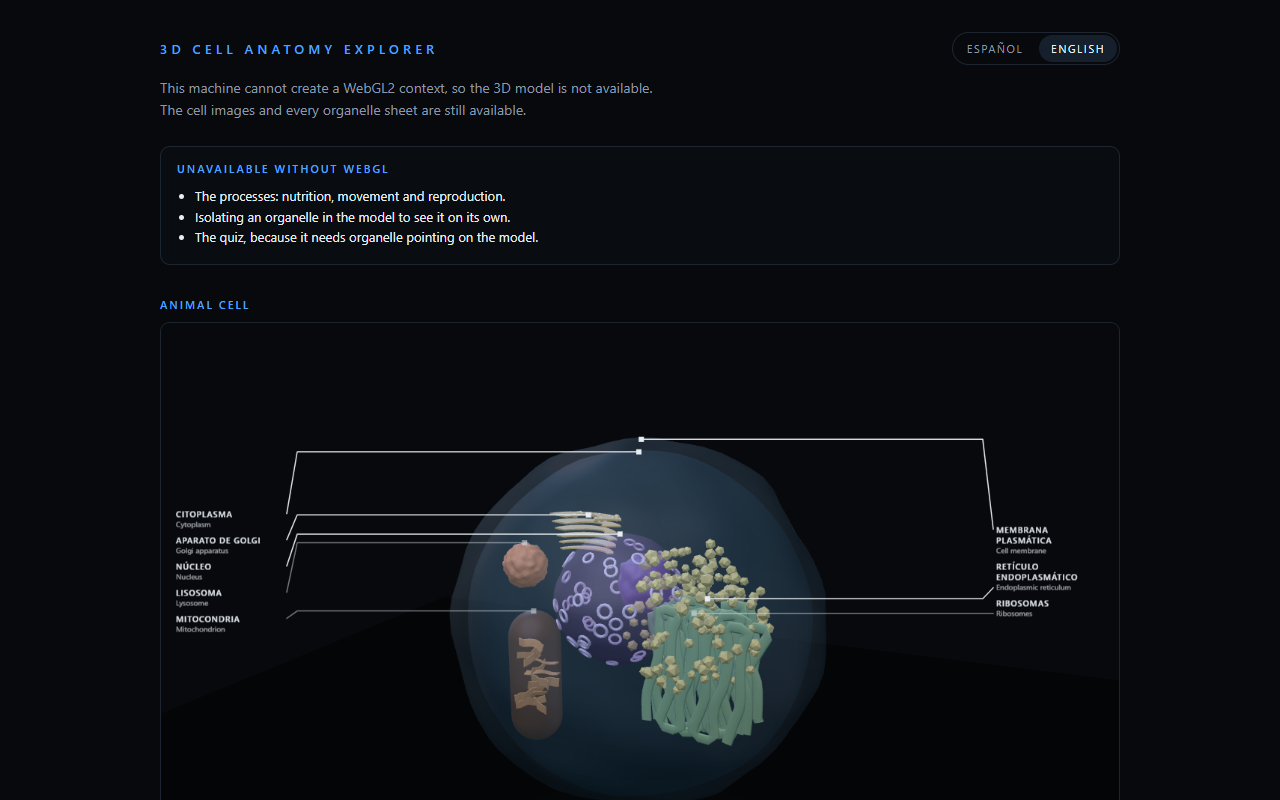
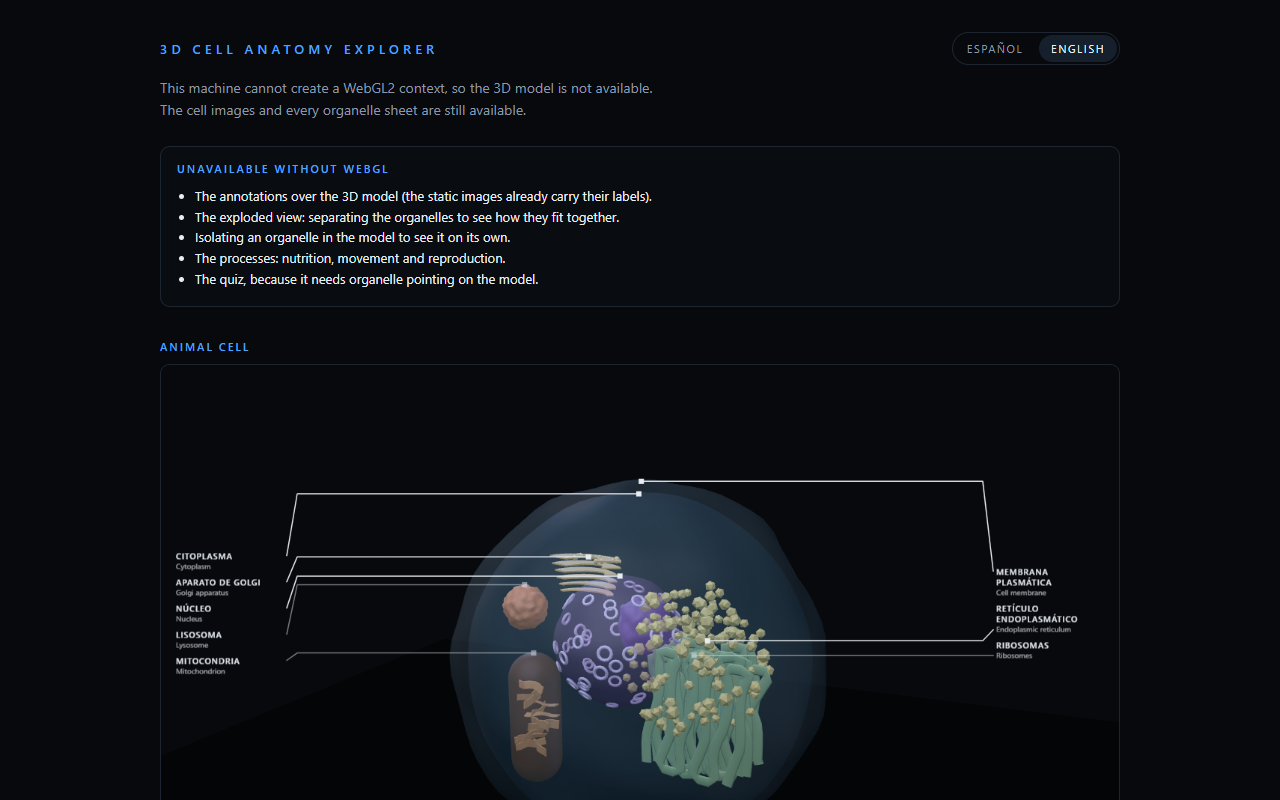
feat(cell-viewer): declare the annotations and the exploded view unavailable too
The static path states all five 3D-only surfaces: bilingual annotations on the
parts, the exploded view, isolate, the processes and the quiz. The declarations
are a data list with a unit test over both locales, and the end-to-end case
asserts every one of them renders in Spanish and in English alongside the images
and the sheets, which stay.

Verified: npx vitest run src/ui/fallbackCopy.test.ts src/ui/i18n -> 18 tests pass;
npx playwright test verify/specs/fallback.spec.ts -> 4 tests pass.

diff --git a/src/ui/i18n/messages.ts b/src/ui/i18n/messages.ts
@@ -168,13 +168,27 @@ export const UI_MESSAGES = {
     es: 'No disponible sin WebGL',
     en: 'Unavailable without WebGL',
   },
-  'fallback.unavailable.processes': {
-    es: 'Los procesos: nutrición, movimiento y reproducción.',
-    en: 'The processes: nutrition, movement and reproduction.',
+  /*
+   * The three model-inspection aids (task 4.22). They are the surfaces the adopted UI reference
+   * makes central — bilingual annotations on the parts, the exploded view, and isolate — and every
+   * one of them is a consequence of having a renderer. Saying so is what keeps the fallback honest:
+   * the static images still carry their labels, but nothing on the page pretends to be interactive.
+   */
+  'fallback.unavailable.annotations': {
+    es: 'Las anotaciones sobre el modelo en 3D (las imágenes estáticas ya llevan sus etiquetas).',
+    en: 'The annotations over the 3D model (the static images already carry their labels).',
+  },
+  'fallback.unavailable.disassembly': {
+    es: 'La vista despiezada: separar los orgánulos para ver cómo encajan.',
+    en: 'The exploded view: separating the organelles to see how they fit together.',
   },
   'fallback.unavailable.isolate': {
     es: 'Aislar un orgánulo en el modelo para verlo por separado.',
     en: 'Isolating an organelle in the model to see it on its own.',
+  },
+  'fallback.unavailable.processes': {
+    es: 'Los procesos: nutrición, movimiento y reproducción.',
+    en: 'The processes: nutrition, movement and reproduction.',
   },
   'fallback.unavailable.quiz': {
     es: 'El cuestionario, porque hay que señalar orgánulos en el modelo.',

diff --git a/verify/specs/fallback.spec.ts b/verify/specs/fallback.spec.ts
@@ -207,6 +207,20 @@ test.describe('the WebGL-unavailable fallback', () => {
         await expect(page.locator(`[data-unavailable="${key}"]`)).toHaveText(t(key, locale));
       }
 
+      // The requirement's whole list, rendered: annotations, disassembly, isolate, the processes
+      // and the quiz. Counting is what catches a declaration that exists in the data but never
+      // reaches the page.
+      expect(await page.locator('[data-unavailable]').count()).toBe(
+        FALLBACK_UNAVAILABLE_SURFACES.length,
+      );
+      expect([...FALLBACK_UNAVAILABLE_SURFACES]).toEqual([
+        'fallback.unavailable.annotations',
+        'fallback.unavailable.disassembly',
+        'fallback.unavailable.isolate',
+        'fallback.unavailable.processes',
+        'fallback.unavailable.quiz',
+      ]);
+
       // The sheets follow the language too, and the images stay put: the switch changes copy only.
       const sheets = await readSheets(page);
       const animalFirst = sheets[0];

diff --git a/src/ui/fallbackCopy.ts b/src/ui/fallbackCopy.ts
@@ -13,8 +13,14 @@ import type { UiKey } from './i18n/messages';
  * test in both languages (`fallbackCopy.test.ts`), alongside the spec sheets and the static images
  * that DO remain.
  */
+/**
+ * The list is ordered by what the learner reaches for: the three ways of examining the model, then
+ * the processes, then the quiz.
+ */
 export const FALLBACK_UNAVAILABLE_SURFACES: readonly UiKey[] = [
-  'fallback.unavailable.processes',
+  'fallback.unavailable.annotations',
+  'fallback.unavailable.disassembly',
   'fallback.unavailable.isolate',
+  'fallback.unavailable.processes',
   'fallback.unavailable.quiz',
 ];

diff --git a/src/ui/fallbackCopy.test.ts b/src/ui/fallbackCopy.test.ts
@@ -24,8 +24,10 @@ describe('the fallback declarations', () => {
     // renderer, the three processes and the quiz need it to run, and isolate + disassembly are the
     // two controls the viewer owns.
     expect([...FALLBACK_UNAVAILABLE_SURFACES]).toEqual([
-      'fallback.unavailable.processes',
+      'fallback.unavailable.annotations',
+      'fallback.unavailable.disassembly',
       'fallback.unavailable.isolate',
+      'fallback.unavailable.processes',
       'fallback.unavailable.quiz',
     ]);
     expect(new Set(FALLBACK_UNAVAILABLE_SURFACES).size).toBe(FALLBACK_UNAVAILABLE_SURFACES.length);
